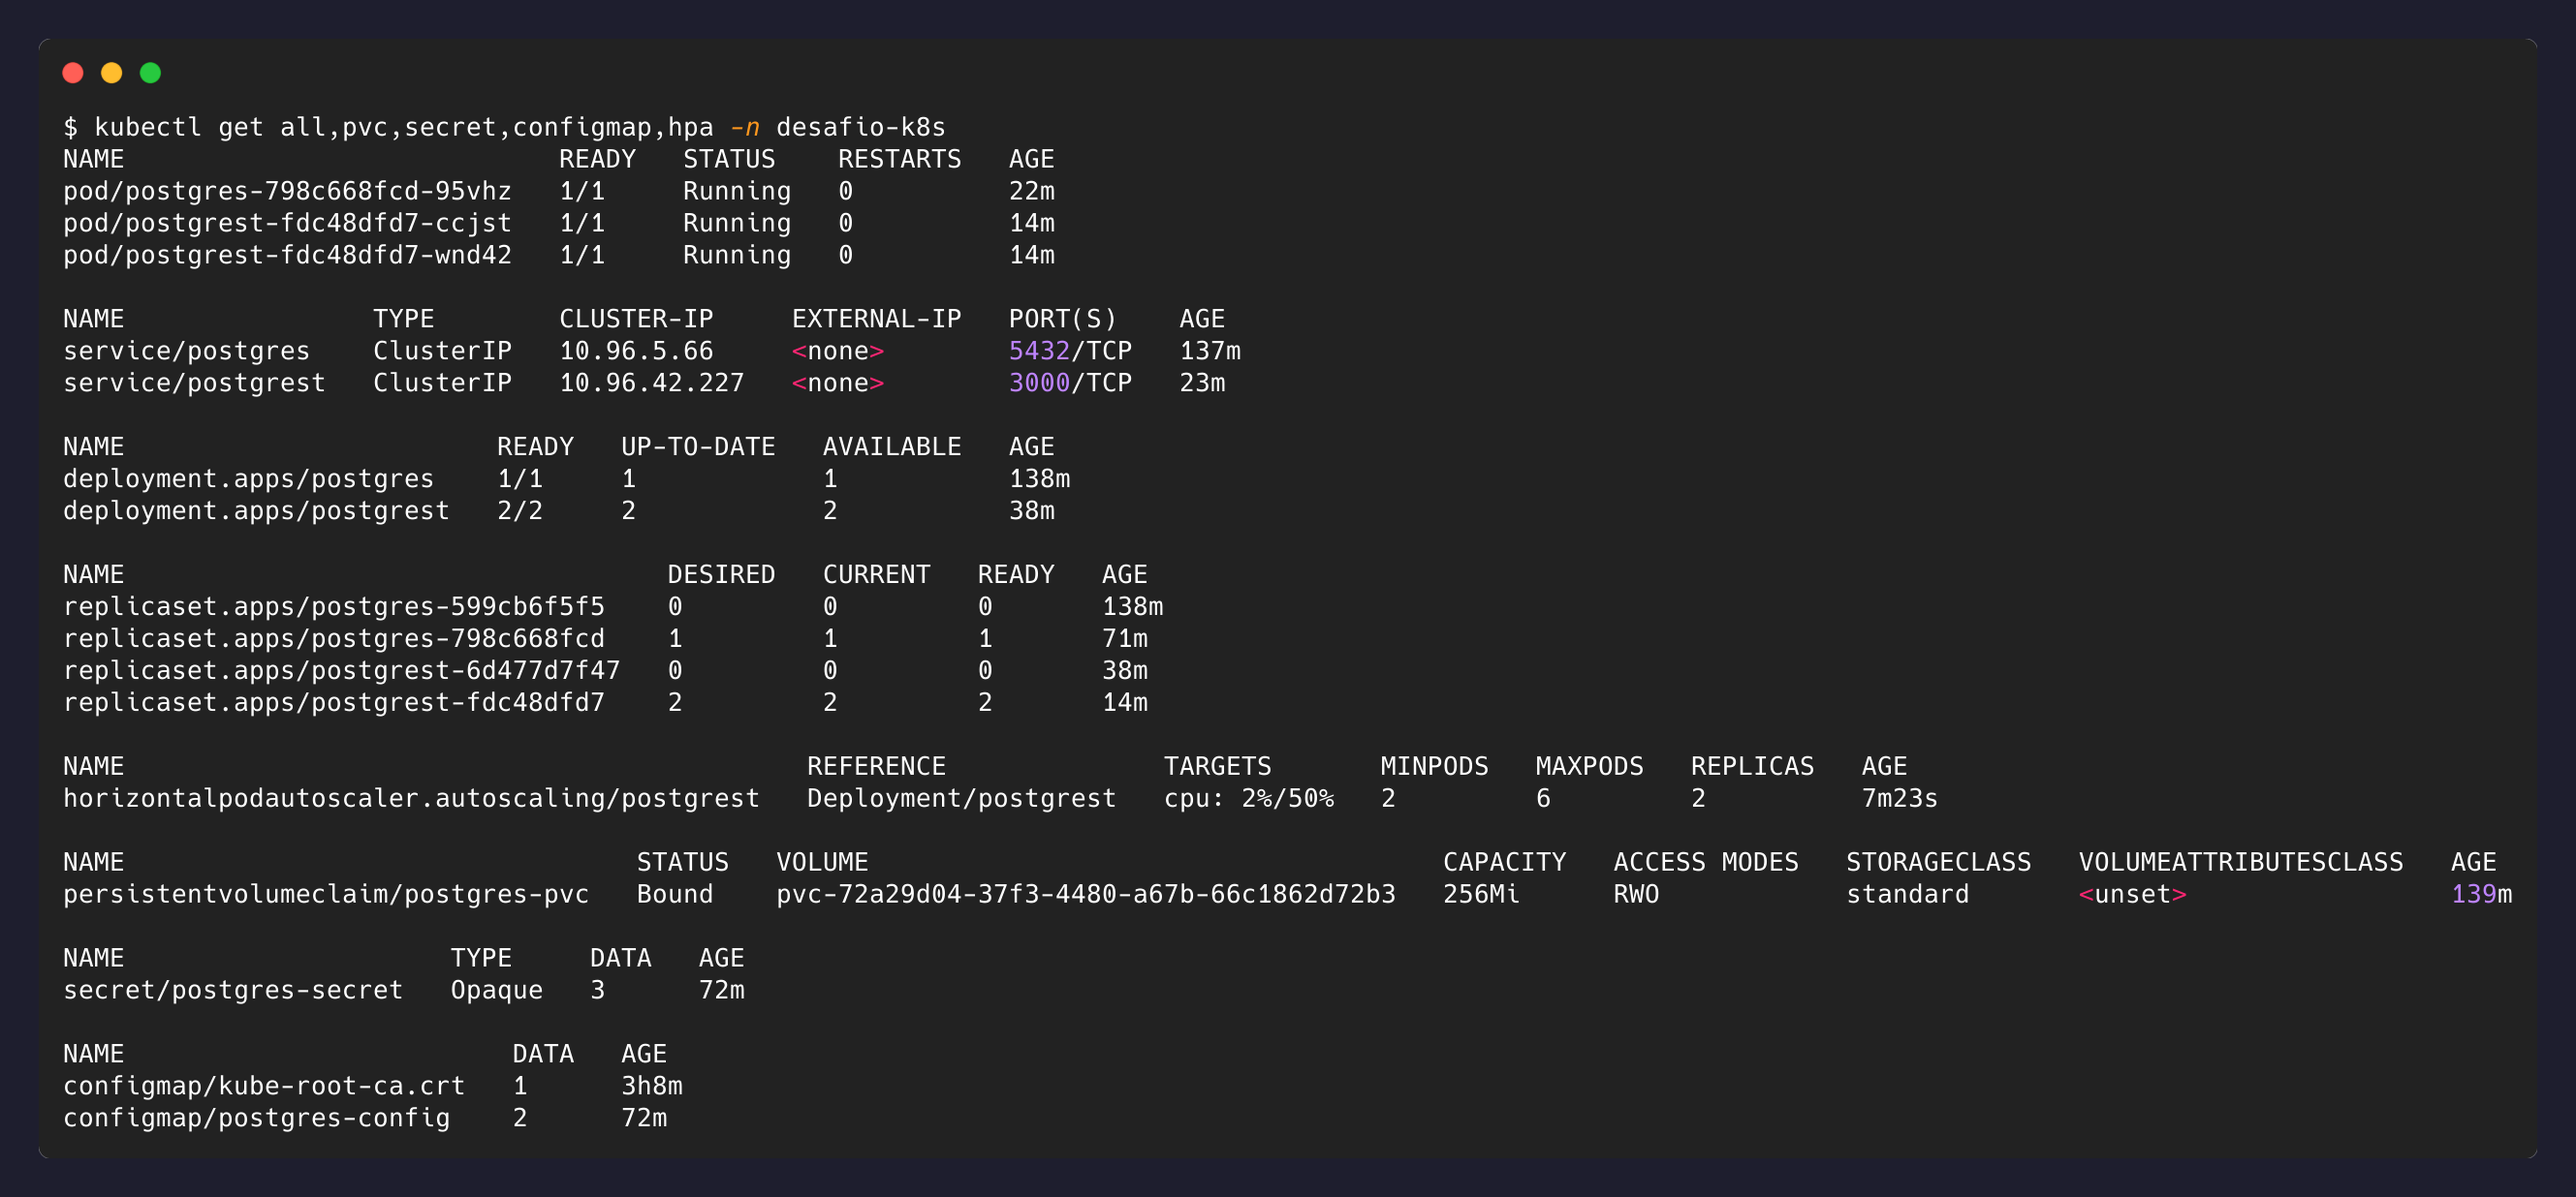
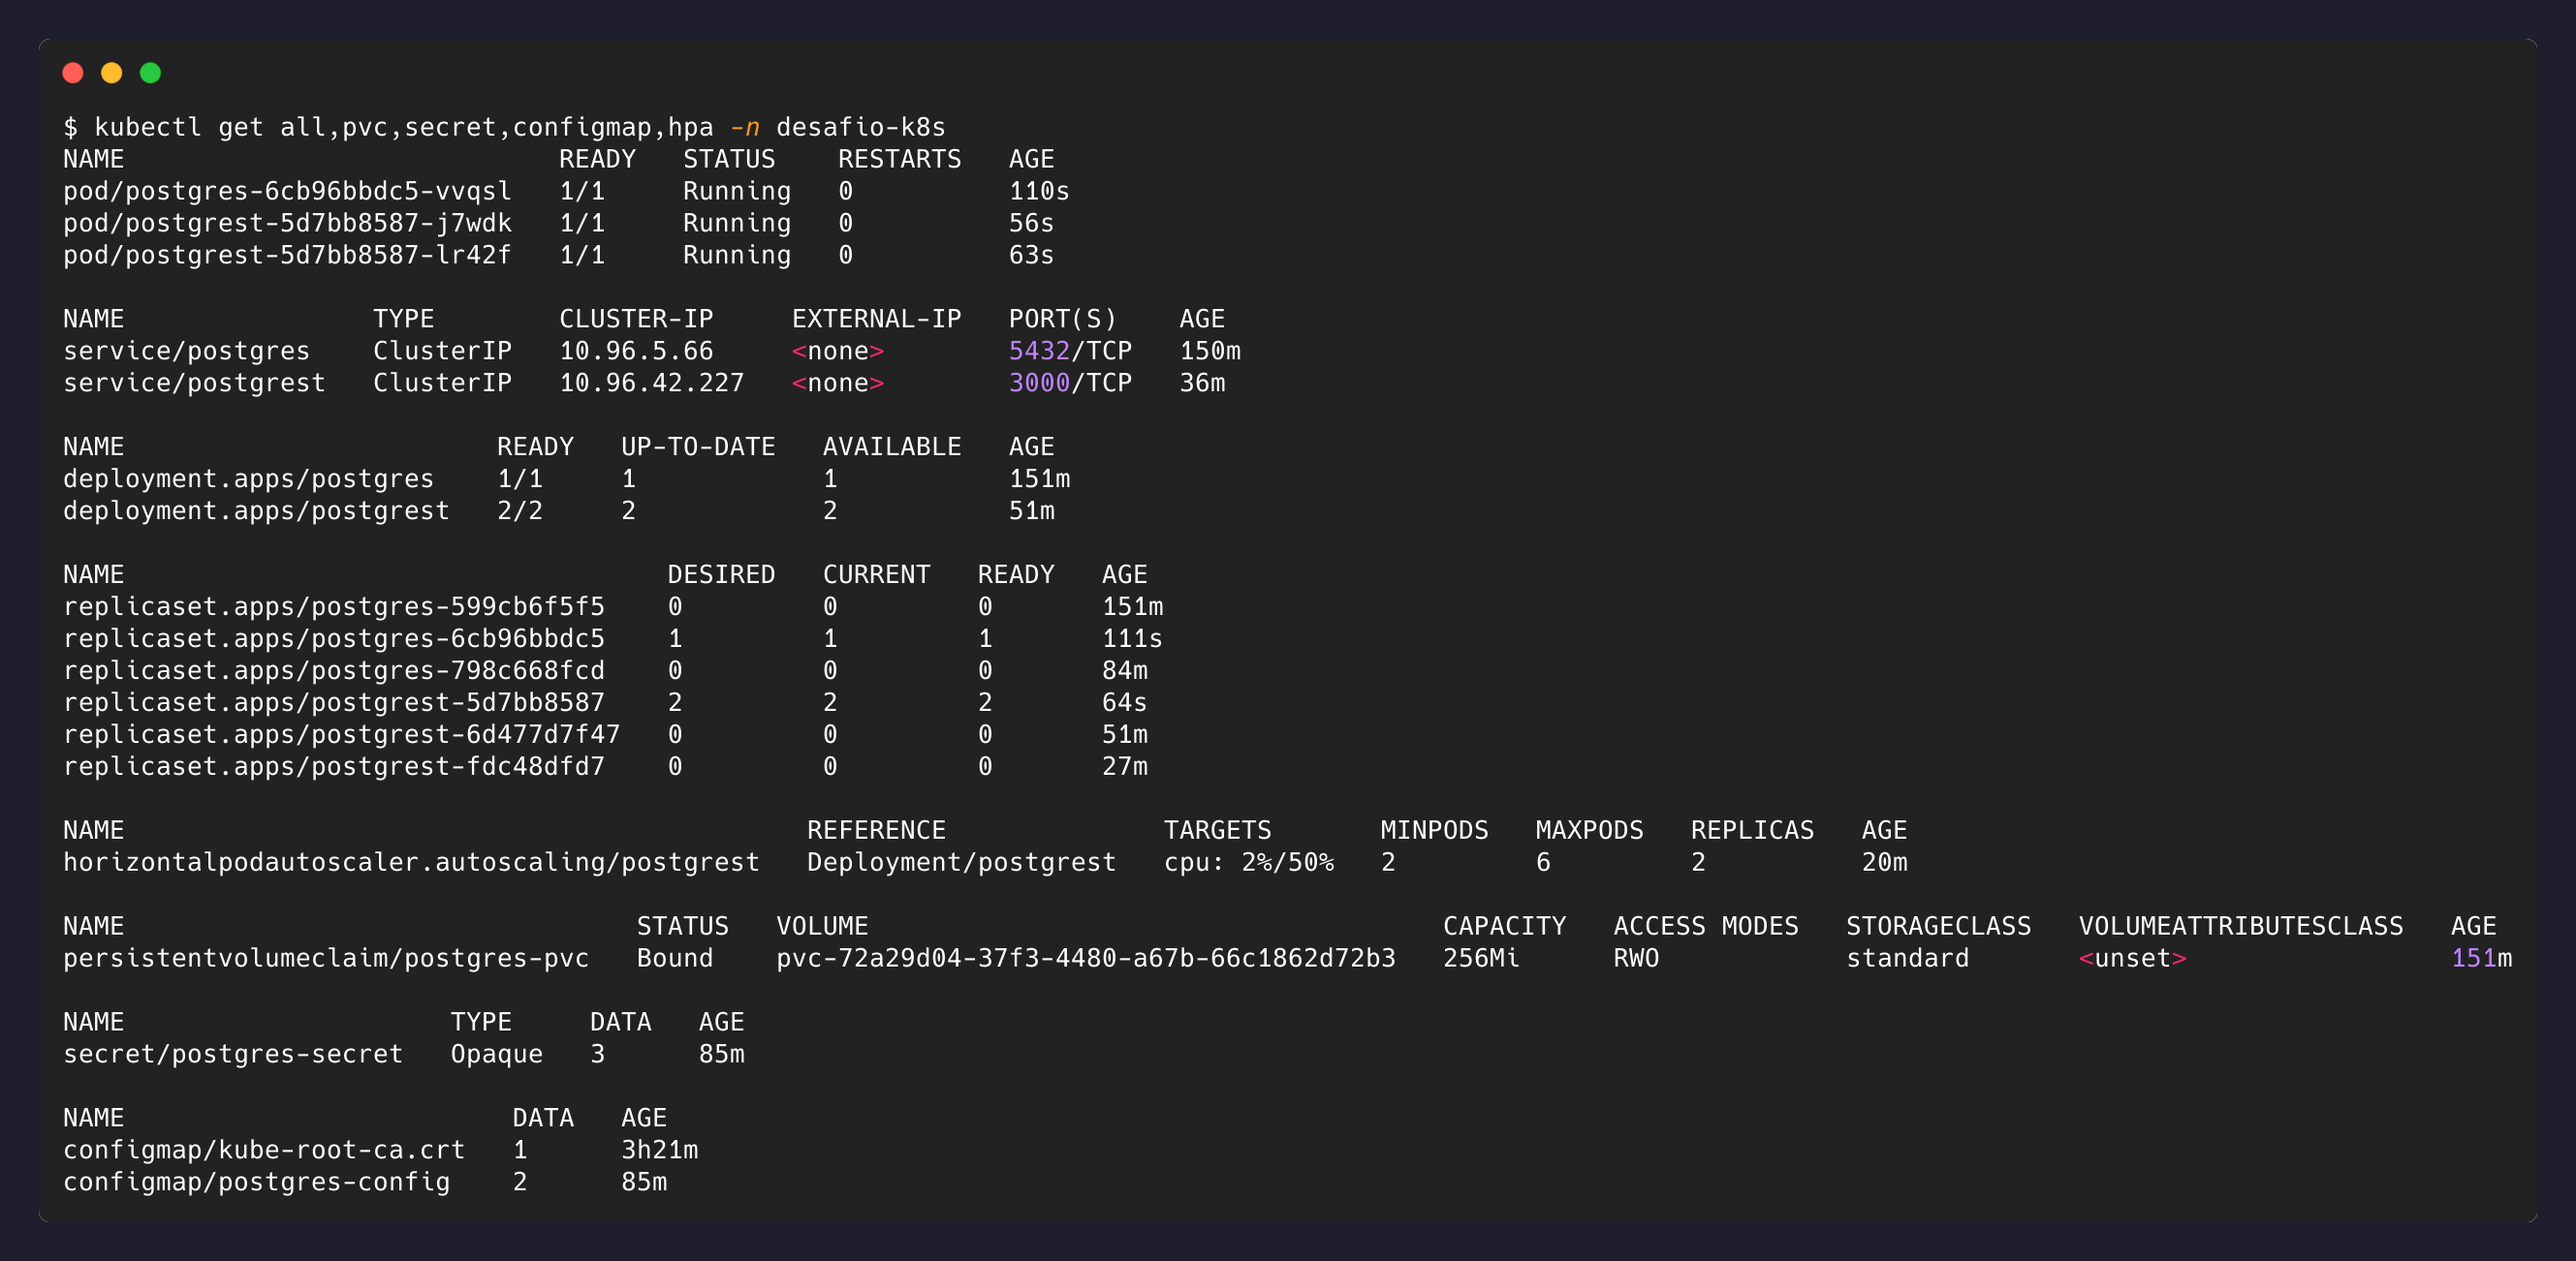
chore: pin images by digest/version, add k8s labels, fix postgres rollout strategy

diff --git a/docs/hardening-producao.md b/docs/hardening-producao.md
@@ -1,0 +1,67 @@
+# Decisões de hardening além do desafio
+
+Este documento registra melhorias aplicadas a todos os manifests depois que os 7 níveis
+do desafio já estavam funcionando, pensando no repositório como um projeto real, não só
+como entrega de exercício. Nenhuma delas era exigida pelos critérios de aceitação — são
+práticas de produção que valem a pena independente disso.
+
+## 1. Imagens fixadas por versão/digest
+
+**Antes**: `postgres:16` e `postgrest/postgrest:latest`.
+
+**Depois**: `postgres:16.15` (versão exata) e
+`postgrest/postgrest@sha256:ec0e25a4e24b0a3bc5e4f011369bfc736bd1b19f513bd01079b86329a7636962`
+(digest exato, resolvido a partir da tag `:latest` em 2026-09-17 — na época,
+correspondia à versão PostgREST 16.3).
+
+Uma tag flutuante como `:latest` ou `:16` pode apontar para uma imagem diferente amanhã,
+sem que nenhum YAML mude — o mesmo `kubectl apply` pode se comportar diferente em
+momentos diferentes. Fixar por digest é a forma mais rigorosa de garantir que o que roda
+em qualquer ambiente é **exatamente** a mesma imagem, byte a byte.
+
+## 2. Labels padrão do Kubernetes
+
+Todos os recursos (antes só o Namespace tinha) ganharam o conjunto recomendado pela
+[documentação oficial](https://kubernetes.io/docs/concepts/overview/working-with-objects/common-labels/):
+`app.kubernetes.io/name`, `/instance`, `/part-of`, `/managed-by`. Isso não muda
+comportamento nenhum — é metadado — mas é o que ferramentas de terceiros (Lens, ArgoCD,
+dashboards) usam pra agrupar e exibir recursos relacionados de forma legível.
+
+Importante: o label usado nos `selector.matchLabels` (`app: postgres` / `app: postgrest`)
+**não foi alterado** — esse campo é imutável depois que o Deployment existe, e trocá-lo
+exigiria recriar o recurso do zero. Os labels novos foram só **adicionados** ao lado dele.
+
+## 3. `strategy.type: Recreate` no Deployment do Postgres
+
+Esta é a correção mais importante desta rodada, não só estética.
+
+A estratégia padrão de rollout de um Deployment é `RollingUpdate`, que tenta subir o Pod
+novo **antes** de derrubar o antigo (pra não ter downtime). Isso funciona bem para
+aplicações sem estado como o PostgREST — mas o Postgres está com `replicas: 1` montando
+um PVC `ReadWriteOnce`, que só pode ser montado por um Pod por vez. Com `RollingUpdate`,
+o Pod novo ficaria preso em `Pending` esperando um volume que o Pod antigo ainda não
+liberou, e o rollout travaria.
+
+Com `strategy.type: Recreate`, o Kubernetes garante que o Pod antigo é **totalmente
+terminado** (e libera o PVC) antes de criar o substituto. Isso significa um pequeno
+período de indisponibilidade a cada atualização do Postgres — um trade-off aceitável e
+correto para uma carga stateful de réplica única, muito melhor do que um rollout que
+trava silenciosamente.
+
+## 4. `resources` e probes também no Postgres
+
+O desafio pedia probes e limits explicitamente só "na API" (Nível 6). Estendi os dois
+para o Postgres também:
+
+- `resources.requests`/`limits`: mesma lógica do Nível 6 — sem isso, o Postgres concorre
+  por CPU/memória sem nenhum teto, podendo afetar outros Pods do nó.
+- `livenessProbe`/`readinessProbe` via `pg_isready` (a ferramenta oficial do Postgres
+  pra checar se o servidor está aceitando conexões): mais preciso que só checar se o
+  processo existe — confirma que o banco está de fato pronto para receber queries.
+
+## Validação
+
+Todas as mudanças foram aplicadas e testadas no cluster já em funcionamento: o rollout
+do Postgres com `Recreate` completou sem ficar preso, os dados da tabela `todos`
+sobreviveram à recriação, e o PostgREST continuou respondendo normalmente após o
+deployment ser atualizado com a imagem fixada.
